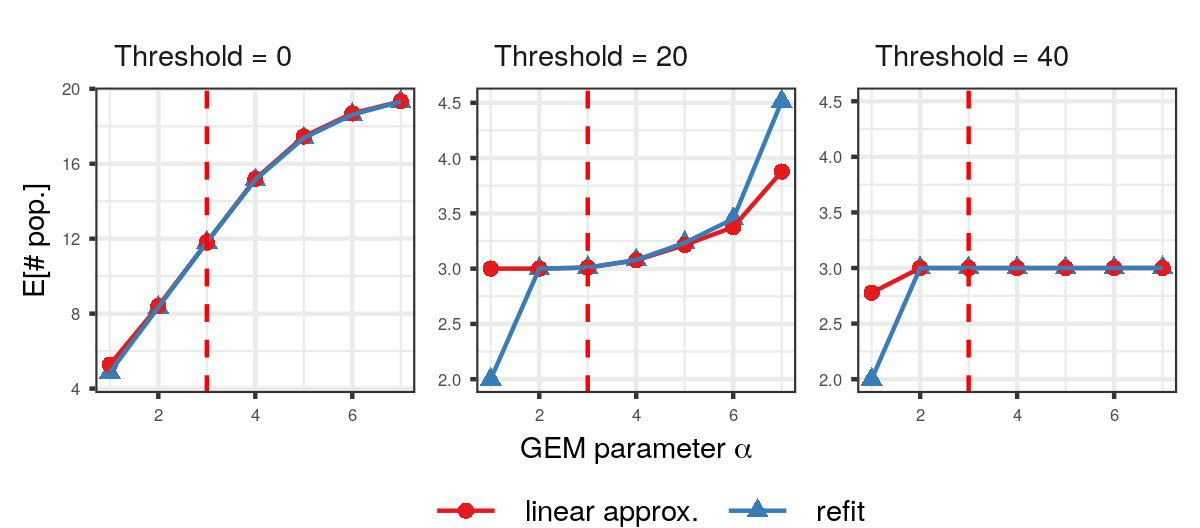
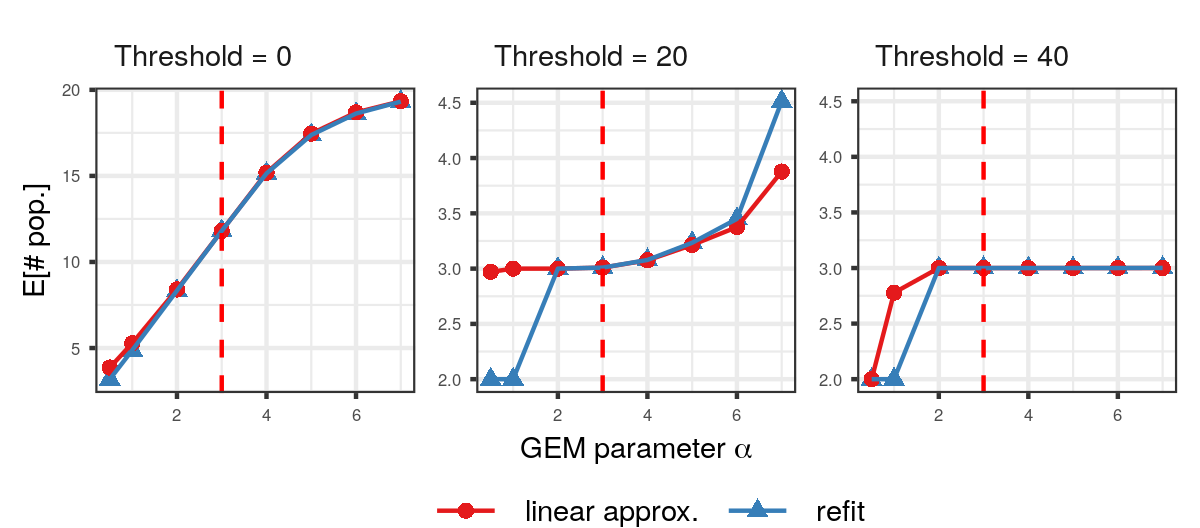
update structure results

diff --git a/writing/journal_paper/structure_experiments.tex b/writing/journal_paper/structure_experiments.tex
@@ -27,11 +27,15 @@ understanding the degree to which populations have grown genetically distinct is
 well-separated populations with little genetic diversity are particularly at risk of extinction. 
 
 We employ the topic model from \exref{structure_bnp_process}. 
+Since we know that there are four geographic regions, 
+we pick $\alpha_0 = 3$ so that \textit{a priori} 
+there are $\approx 4$ populations expected under the 
+GEM prior (\eqref{prior_num_clusters}). 
 \figref{stru_init_fit} shows the inferred
-individual admixtures the initial fit with
-stick-breaking distribution is
-$\pstick(\nu_{nk}) = \betadist{\nu_{nk}\vert 1, \alpha_0}$, $\alpha_0 = 6$. 
-In this fit, there appears to be three dominant latent populations, 
+individual admixtures in the initial fit with a
+$\betadist{1, \alpha_0}$ stick-breaking distribution.
+
+In the posterior, there appears to be three dominant latent populations, 
 which we arbitrarily label as populations 1, 2, and 3
 (see \figref{stru_init_fit}). 
 The inferred populations generally correspond with the geographic regions: 
@@ -47,8 +51,8 @@ with some fixed number of populations $K$ and does inference with MCMC.
 To select $K$, \citet{pritchard:2000:structure} ran STRUCTURE with $K = 1, ..., 5$, and selected the $K$ that maximized a proxy for the posterior quantity 
 $p(K | \x)$, under the assumption of a uniformly distributed prior on $K$. 
 Their algorithm selected $K = 3$. 
-At $\alpha_0 = 3$, our BNP model agrees with \citet{pritchard:2000:structure} in that we also uncover three dominant latent populations, 
-with each having a loose correspondence with the Chawia, Ngangao, and Mbololo geographical regions.  
+At $\alpha_0 = 3$, the BNP model agrees with \citet{pritchard:2000:structure} in that we both uncover three genetically distinct clusters,
+corresponding with the Chawia, Ngangao, and Mbololo geographical regions.
 
 
 
@@ -73,14 +77,18 @@ with each having a loose correspondence with the Chawia, Ngangao, and Mbololo ge
 \end{knitrout}
 
 
-\subsubsection*{Sensitivity: number of populations}
+\subsubsection*{Sensitivity of the number of populations to $\alpha$}
 
 We start by evaluating the sensitivity of the inferred number of populations 
 to the $\alpha$ parameter in the $\betadist{\nu_{nk}\vert 1, \alpha}$ stick distribution. 
-The expected number of in-sample clusters was 
+We consider the range $\alpha = 0.5, 1, 2, \ldots 7$. 
+For this range of $\alpha$, there can be anywhere from two to seven expected populations per individual under the GEM prior (\eqref{prior_num_clusters}). 
+
+The expected number of in-sample clusters in the data set was 
 defined in \exref{insample_nclusters}, 
 except in this model, the summation is over the indices for individual $n$, locus $\l$ and chromosome $i$. 
-(We also often use ``population" instead of ``cluster", in this application). 
+(We also will use ``population" interchangably with ``cluster",
+in this application). 
 We will allow the option of setting $\tau > 0$ in order to count only the
 populations that comprise a non-negligible fraction of the data set. 
 
@@ -96,7 +104,8 @@ populations that comprise a non-negligible fraction of the data set.
 % This allows us to condition on fixed draws from a distribution that is independent of $\eta$ (in this case, the underlying distribution is $\mathrm{Uniform}[0, 1]$); 
 % these fixed draws are shared across every computation of $\gpop(\eta; \tau)$ below. 
 
-The expected number of latent populations is sensitive to $\alpha$ (\figref{stru_alpha_nclusters}).
+The expected number of latent populations is sensitive to $\alpha$
+(\figref{stru_alpha_nclusters}).
 Without any thresholding ($\tau = 0$),
 the expected number of populations quickly increases as $\alpha$ increases; 
 in fact, it nearly saturates at $\kmax = 20$ when $\alpha = 7$. 
@@ -111,7 +120,7 @@ $2\%$ and $4\%$
 of the total number of loci in the data set, respectively. 
 The thresholded estimates for the number of populations is still
 moderately sensitive to the value of $\alpha$. 
-When refitting the variational approximation at $\alpha = 1, \ldots, 7$,
+When refitting the variational approximation at $\alpha = 0.5, 1, \ldots, 7$,
 the thresholded quantities vary between two and four
 latent populations. 
 
@@ -121,7 +130,7 @@ We formed the linear approximation at $\alpha_0 = 3$ and computed
 $\gclusters(\etalinglobal(\alpha))$ for $\alpha = 1, \ldots, 7$. 
 For this range of $\alpha$, the linearized parameters and the refitted parameters 
 almost perfectly agree on values of $\gclusters$ with $\tau = 0$. 
-However, when $\tau = 20$ and $\tau = 40$, 
+However, when $\tau = 20$,
 the linearized parameters 
 underestimated the true sensitivity of $\gclusters$ found by refitting. 
 In particular, the linearized parameters failed to produce
@@ -186,9 +195,9 @@ Both the linearized and the refitted variational parameters agree on this shift 
 On the other hand, under the refitted variational parameters at $\alpha = 1$, 
 the expected number of loci belonging to population 3 decreases to 
 $6.7$, 
-below the thresholds $\tau = 20$ and $\tau = 40$. 
+below the threshold $\tau = 20$. 
 Thus, the expected number of latent populations with allocations above
-either threshold decreases to two. 
+the threshold $\tau = 20$ decreases to two. 
 The linearized parameters
 under-estimated this decrease in allocation to population 3, and 
 therefore continued to estimate three latent populations even at $\alpha = 1$. 
@@ -207,7 +216,7 @@ therefore continued to estimate three latent populations even at $\alpha = 1$.
 
 \end{knitrout}
 
-\subsubsection*{Sensitivity: individual admixtures}
+\subsubsection*{Sensitivity of individual admixtures to functional perturbations}
 
 Examining the inferred admixtures in \figref{stru_init_fit} provides clues into the historical migration patterns of the genotyped individuals. 
 For example, while individuals collected from the Mbololo region are inferred to be admixed primarily with population 1, 
@@ -315,9 +324,9 @@ in  \figref{stru_func_sens}. Timing on other considered $\phi$ are similar. }
     Hessian solve for $\alpha$ sensitivity & 
         0.32\\
     Linear approx. $\etalinglobal (\alpha)$ for $\alpha = 1, ..., 10$ & 
-        0.0059\\
+        0.007\\
     Refits $\etaopt(\alpha)$ for $\alpha = 1, ..., 10$ & 
-        34\\
+        43\\
     \hline
     The influence function & 0.59\\
     Hessian solve for $\phi$ &
